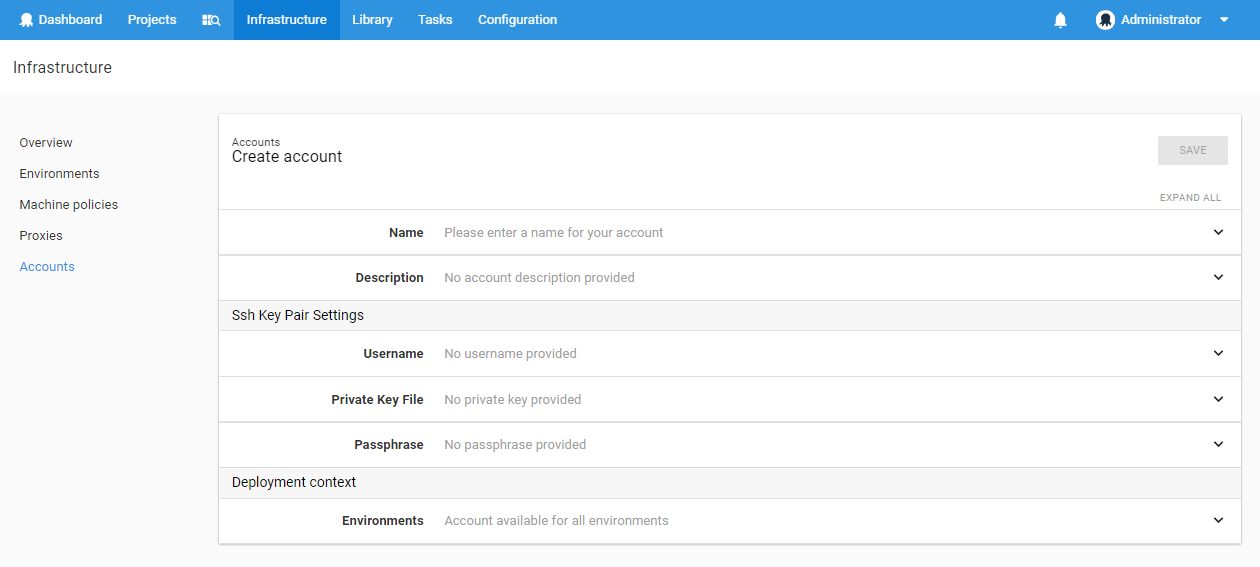
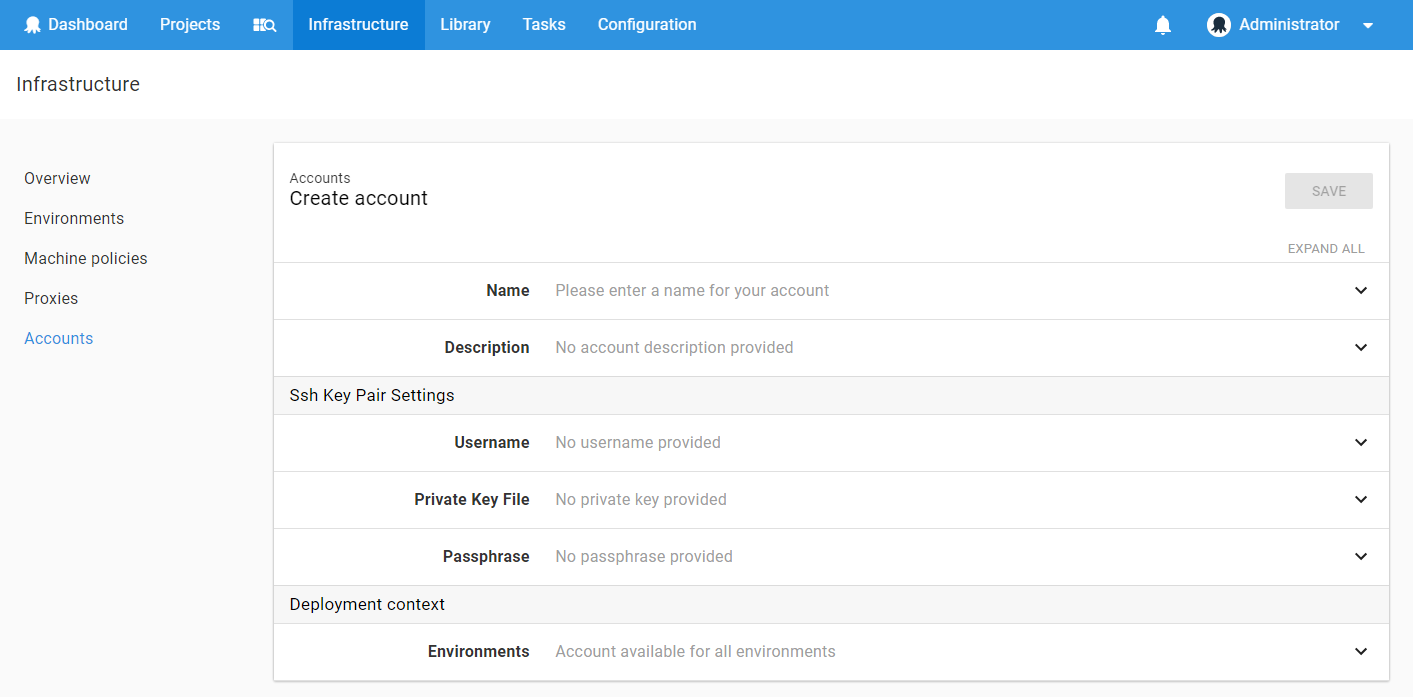
updated username and password create page for v4

diff --git a/docs/key-concepts/environments/accounts/username-and-password.md b/docs/key-concepts/environments/accounts/username-and-password.md
@@ -10,7 +10,7 @@ A Username/Password Account is one mechanism that can be used to authenticate to
 
 You must provide both the username and password which will be used during the initial authentication phase of the SSH connection.
 
-![](/docs/images/3048108/3277898.png "width=500")
+![](username-and-password-create.png "width=500")
 
 ## Enabling Username & Password Authentication {#UsernameandPassword-EnablingUsername&amp;PasswordAuthentication}
 
